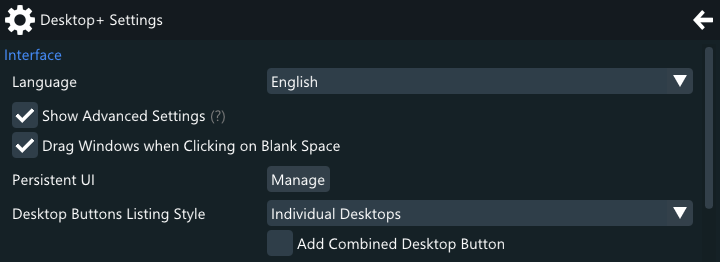
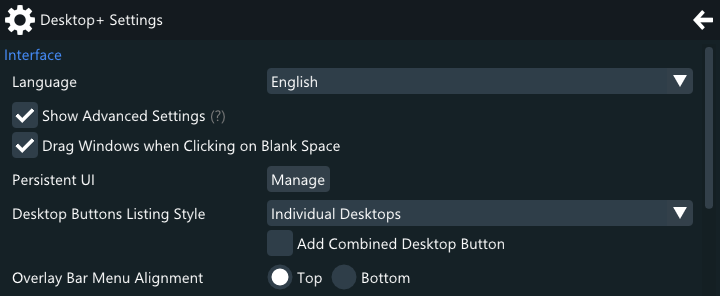
Update User Guide

diff --git a/docs/user_guide.md b/docs/user_guide.md
@@ -126,7 +126,8 @@ One of the capture methods available for capturing desktops and windows for over
 
 ### Gaze Fade
 
-A method to automatically adjust an overlay's opacity based on the user's gaze. The method in Desktop+ is distance-based, as opposed to other angle-based approaches.
+A method to automatically adjust an overlay's opacity based on the user's gaze. The method in Desktop+ is distance-based, as opposed to other angle-based approaches.  
+If the HMD has support for eye-tracking, the eye gaze direction can be used.
 
 ### Browser Overlay
 
@@ -244,6 +245,10 @@ Press the button to manage the [Persistent UI settings](#persistent-ui-page).
 Changes the way the desktops are listed on the Action Bar or if at all.
   - **[x] Add Combined Desktop**:  
   Adds a button for the combined desktop to the Action Bar.
+
+- **Overlay Bar Menu Alignment** (Adv.):  
+Sets where the menus opened from the Overlay Bar's buttons appear.  
+This defaults to top, except on Steam Frame, where the dashboard is always rendered on top of streamed overlays.
 
 #### Environment
 
@@ -443,12 +448,22 @@ These settings allow tweaking the performance characteristics of Desktop+. Howev
   Enables use of alternative methods to retrieve the software cursor image, instead of relying on the cursor returned by the Desktop Duplication API.  
   This rendering method is slightly slower than the regular one and doesn't support cursor animation. It is intended for users experiencing issues with the hardware cursor capture using Desktop Duplication.  
   If other means to retrieve the current cursor fail, it may additionally fall back to using the default cursor image or a built-in alternative.
+  - **[x] Per-Overlay Textures**:  
+  Gives every Desktop Duplication overlay its own texture instead of cropping all of them out of one combined desktop texture.  
+  Can resolve some laser pointer issues on Steam Frame. Increases VRAM usage and may negatively impact performance.  
+  This setting always uses extra resources and copies from the normally used combined desktop texture even when only one overlays is active.  
+  Per-overlay textures are released when overlays are hidden.
 
-- **[x] HDR Mirroring**  
+- **GPU Priority** (Adv.):  
+  Sets the GPU scheduling priority assigned to the Desktop+ processes.  
+  The effect of this neglible if not GPU-bound.
+  
+- **[x] HDR Mirroring** (Adv.):  
   Enables mirroring of desktops and windows using higher bit-depth textures, supporting HDR output.  
   While the full bit-depth is passed to SteamVR, there are no known HMDs capable of making use of HDR output.  
   The primary use-case for this setting is to fix SDR content not being captured correctly while HDR is enabled in the OS.  
   This setting is still considered experimental.
+  
 - **[x] Show FPS in Floating UI**  
   When this is active, the number of captured or rendered frames per second, at which the overlay is updated, is displayed in the Floating UI.  
   This number will be the same for all Desktop Duplication overlays, since they share a single backing texture.
@@ -829,7 +844,8 @@ Click on the drop-down list to select the position origin of the overlay. This c
   Attach overlay to the SteamVR seated position. This origin may have an unexpected position if the active VR game isn't using the seated space.  
   Update the origin position by resetting the seated position in SteamVR. Games may also trigger updates to this position.
   - **Dashboard**:  
-  Attach overlay to the SteamVR dashboard. If visibility isn't restricted to dashboard, the origin position updates when the dashboard is brought up.
+  Attach overlay to the SteamVR dashboard. If visibility isn't restricted to dashboard, the origin position updates when the dashboard is brought up.  
+  When the legacy SteamVR dashboard is active, such overlays only follow the Desktop+ dashboard tab due to limitations in SteamVR.
   - **HMD**:  
   Attach overlay to the HMD. This origin is matches head movement 1:1 and essentially looks static in the headset view.
   - **Left Controller**:  
@@ -957,7 +973,8 @@ Sets if the 3D properties are applied.
 
 - **[x] Gaze Fade**  
 Sets if the Gaze Fade properties are applied.
-Gaze Fade gradually fades the overlay to 0% opacity when not looking at it. When the overlay is at 0% opacity, it is considered inactive and will not react to laser pointer input.
+Gaze Fade gradually fades the overlay to 0% opacity when not looking at it. When the overlay is at 0% opacity, it is considered inactive and will not react to laser pointer input.  
+Not applied while overlay drag-mode is active.
   - **[Auto-Configure]**:  
   Configure distance and sensitivity values automatically from the current gaze and overlay settings. After clicking, a pop-up will appear asking to look at the overlay for 3 seconds.
   - **Distance** (Adv.):  
@@ -966,6 +983,8 @@ Gaze Fade gradually fades the overlay to 0% opacity when not looking at it. When
   Rate at which the fading occurs. As Gaze Fade only takes the center point of the overlay in account, adjusting this value depending on the overlay size is recommended.
   - **Target Opacity** (Adv.):  
   Minimum opacity Gaze Fade will set when not looking at the overlay. If this value is higher than the overlay's opacity property, Gaze Fade will be reversed and fade the overlay in when not looking at it.
+  - **[x] Use Tracked Gaze** (Adv.) (only visible if eye-tracking support is detected):  
+  Sets if the eye gaze direction is used instead of the HMD rotation. Experimental.
   
 - **[x] Laser Pointer Input**  
 Sets if laser pointer input is enabled for this overlay. The laser pointer will pass through the overlay if this is disabled.
@@ -1168,9 +1187,13 @@ Normal layout displayed by default.
 Shifted layout displayed when any of the shift keys are held, or caps lock is active.  
 Usually features capital letters and special characters.
 
-- **AltGr** (only available if "[x] Has AltGR" is ticked):  
+- **AltGr** (only available if "[x] Has AltGr" is ticked):  
 AltGr layout displayed when AltGr is being held. Not present on US-style layouts.  
 Usually features third-level letters and special characters.
+
+- **AltGr+Shift** (only available if "[x] Has AltGr" is ticked):  
+Fourth-level layout displayed while AltGr and a shift key are held at the same time. Not switched to if left completely blank.  
+Usually features shifted third-level letters and special characters.
 
 - **Aux**:  
 Auxiliary layout. Only displayed if explicitly switched to via a "Toggle Sub-Layout" key.  
@@ -1245,7 +1268,7 @@ The string input simulated when pressing the key.
 ##### Toggle Sub-Layout
 
 Explicitly switch to a different sub-layout. This is always a toggle. Place an identical key in the target sub-layout to allow switching back.  
-Shift and AltGr sub-layouts are switched to automatically depending on the related modifier's state, making this only necessary to reach the Aux sub-layout.
+Shift, AltGr and AltGr+Shift sub-layouts are switched to automatically depending on the related modifier's state, making this only necessary to reach the Aux sub-layout.
 
 - **Sub-Layout**:  
 Sets the sub-layout to toggle.
@@ -1267,7 +1290,7 @@ Name of the keyboard layout's author. This is displayed in the [Keyboard Layout 
 Official layouts leave this field blank.
 
 - **[x] Has AltGr**:  
-Sets if the AltGr sub-layout should be present. This is typically left unticked for US-style layouts.
+Sets if the AltGr and AltGr+Shift sub-layouts should be present. This is typically left unticked for US-style layouts.
 
 - **Preview Clusters**:  
 Untick clusters to check how the layout will look with different [key clusters settings](#key-clusters) set.  
@@ -1291,7 +1314,7 @@ Left-click individual keys to select them in the key list or right-click a key t
 
 Desktop+ was written to be lean in both computational load and memory footprint. However, functionality does not come without a price, so knowing the performance characteristics of the application can be helpful.
 
-In general, configured, but inactive overlays are without noticeable performance penalty. Mirroring of the desktops or windows is paused completely while no overlays using the source are active.  
+In general, configured, but inactive overlays are without noticeable performance penalty. Mirroring of the desktops or windows is paused completely while no overlays using the source are active, and most textures are released from GPU memory after a few seconds.  
 An overlay is considered inactive when it's not enabled or visible. This means display modes hiding an overlay and Gaze Fade setting its opacity to 0% are ways to set an overlay inactive.
 Overlays merely outside the view are *not* considered inactive, but may still have a lower GPU load from being culled from rendering by the VR Compositor.
 
@@ -1300,7 +1323,7 @@ On certain multi-GPU setups, such as laptops with a hybrid GPU solution, texture
 
 ## Desktop Duplication
 
-All Desktop Duplication overlays share a single texture, meaning additional overlays are fairly cheap. Mirroring is stopped when no Desktop Duplication overlays are active.  
+All Desktop Duplication overlays share a single texture, meaning additional overlays are fairly cheap. Mirroring is stopped when no Desktop Duplication overlays are active (unless [Per-Overlay Textures](#performance) is enabled).  
 Cursor movement is decoupled from the screen's refresh-rate and can cause GPU load spikes, especially when a mouse with a high polling rate is used. If this is undesirable, use the Update Limiter with a low frame time limit to mitigate this.
 
 ## Graphics Capture
